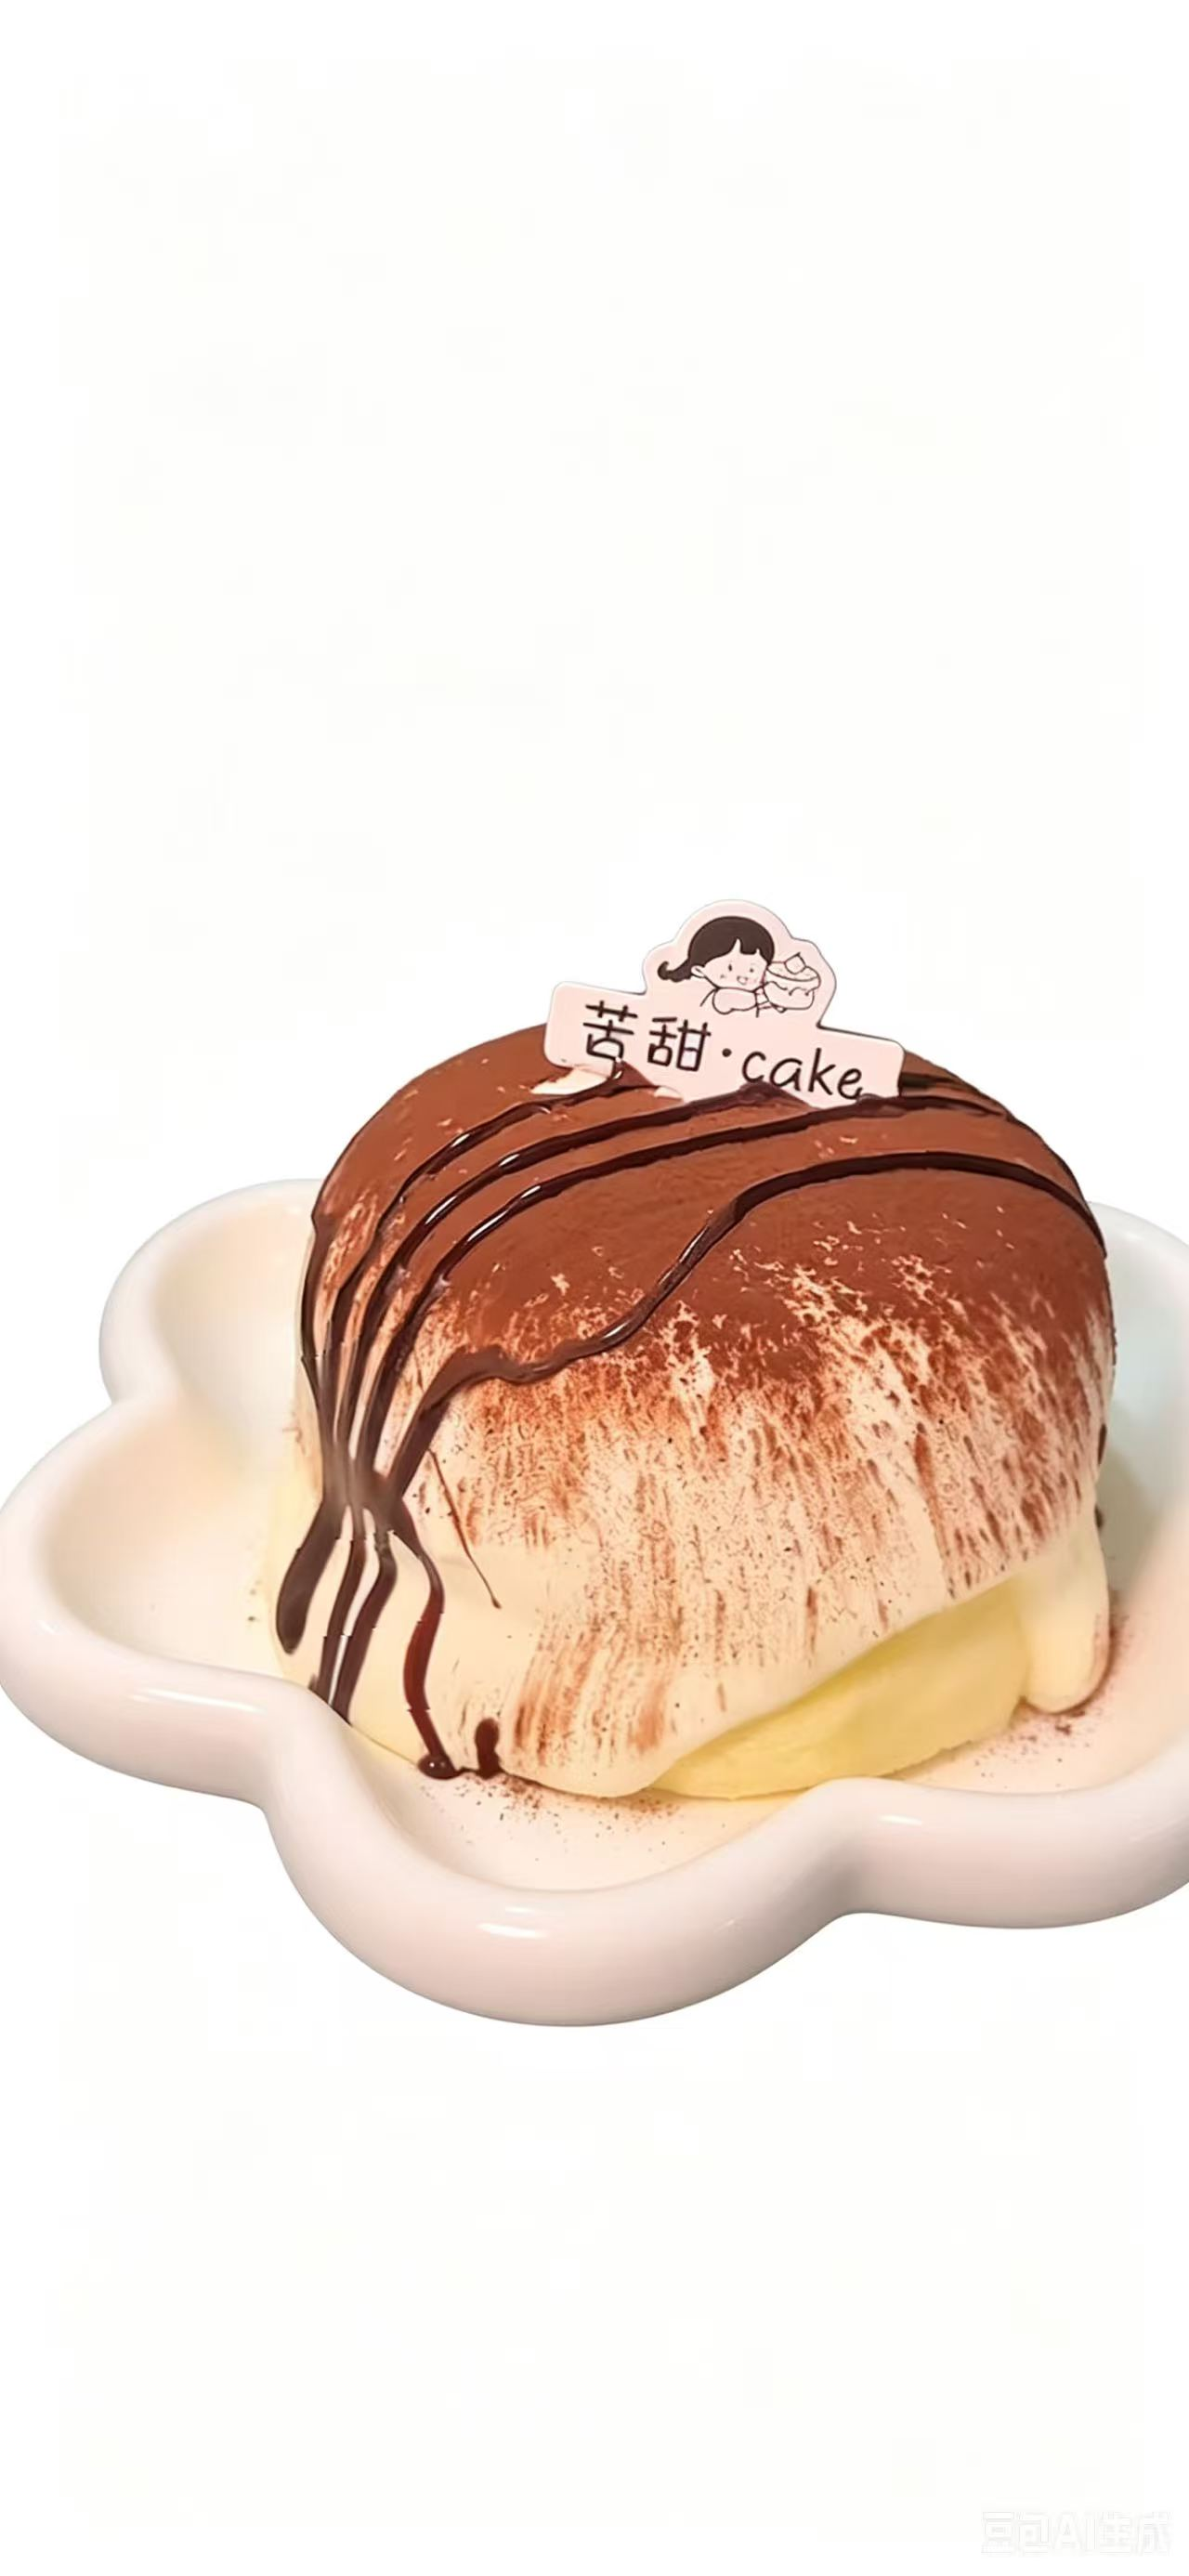
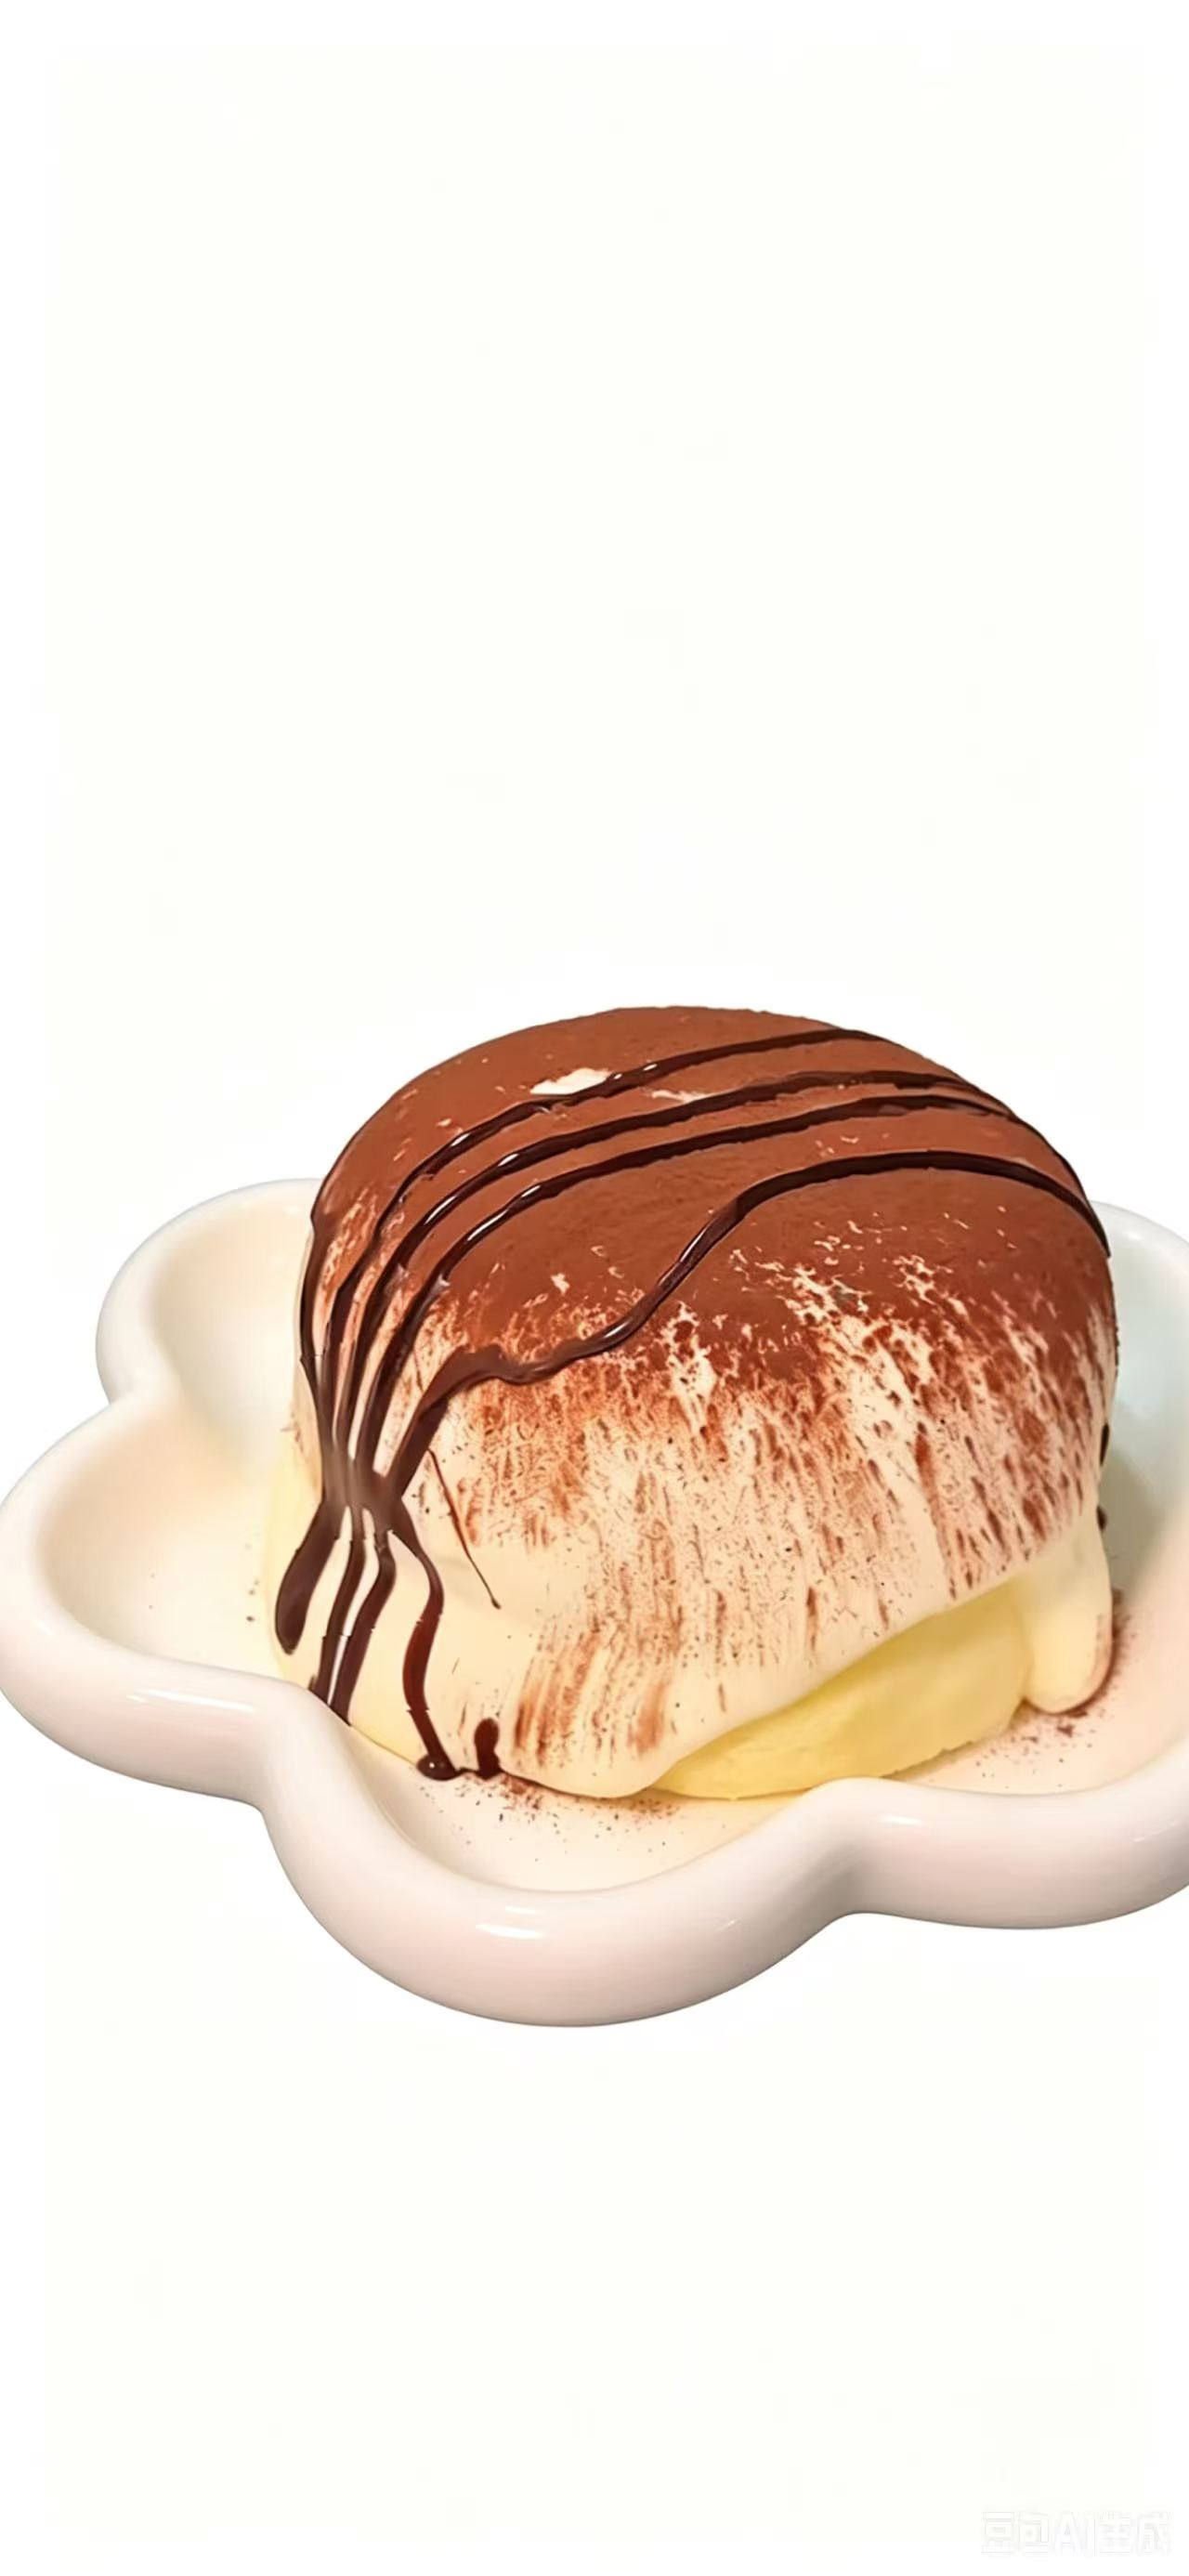
Add files via upload

diff --git a/xiaocengxu/index.html b/xiaocengxu/index.html
@@ -388,24 +388,24 @@
         </div>
       </article>
 
-      <!-- 套餐：限定 -->
+      <!-- 套餐：超值 -->
       <article class="prod-card" data-cat="combo">
         <div class="prod-img-box">
-          <img src="images/img-durian-cheese.jpg" alt="曼贺纳限定套餐" loading="lazy" class="prod-img">
-          <span class="prod-badge hot">限定</span>
+          <img src="images/img-combo-value.png" alt="超值套餐" loading="lazy" class="prod-img">
+          <span class="prod-badge hot">超值</span>
         </div>
         <div class="prod-body">
           <div class="prod-head">
-            <h2 class="prod-name">曼贺纳限定套餐</h2>
+            <h2 class="prod-name">超值套餐</h2>
             <div class="prod-price-row">
               <span class="prod-price">¥52</span>
               <span class="prod-price-old">¥61</span>
             </div>
           </div>
-          <p class="prod-desc">榴莲芝士饼(8寸) + 舒芙蕾1份 + 油柑汁(中杯)</p>
+          <p class="prod-desc">榴莲芝士饼(8寸) + 原味舒芙蕾1份 + 黄皮油柑汁(中杯)</p>
           <div class="prod-foot">
             <div class="prod-tags"><span class="tag-p">超值</span></div>
-            <button class="add-circle" onclick="event.stopPropagation();addToCart('曼贺纳限定套餐','¥52',52,'images/img-durian-cheese.jpg')">
+            <button class="add-circle" onclick="event.stopPropagation();addToCart('超值套餐','¥52',52,'images/img-combo-value.png')">
               <svg width="18" height="18" viewBox="0 0 24 24" fill="none" stroke="currentColor" stroke-width="2.5"><line x1="12" y1="5" x2="12" y2="19"/><line x1="5" y1="12" x2="19" y2="12"/></svg>
             </button>
           </div>
@@ -415,7 +415,7 @@
       <!-- 套餐：双人 -->
       <article class="prod-card" data-cat="combo">
         <div class="prod-img-box">
-          <img src="images/img-durian-cheese2.jpg" alt="双人分享套餐" loading="lazy" class="prod-img">
+          <img src="images/img-combo-share.png" alt="双人分享套餐" loading="lazy" class="prod-img">
         </div>
         <div class="prod-body">
           <div class="prod-head">
@@ -425,10 +425,10 @@
               <span class="prod-price-old">¥108</span>
             </div>
           </div>
-          <p class="prod-desc">榴莲芝士饼(10寸)×1 + 光饼×4 + 油柑汁(大杯)×2</p>
+          <p class="prod-desc">榴莲芝士饼(10寸)×1 + 鲜肉光饼×6 + 黄皮油柑汁(大杯500ml)×2</p>
           <div class="prod-foot">
             <div class="prod-tags"><span class="tag-p">分享</span></div>
-            <button class="add-circle" onclick="event.stopPropagation();addToCart('双人分享套餐','¥88',88,'images/img-durian-cheese2.jpg')">
+            <button class="add-circle" onclick="event.stopPropagation();addToCart('双人分享套餐','¥88',88,'images/img-combo-share.png')">
               <svg width="18" height="18" viewBox="0 0 24 24" fill="none" stroke="currentColor" stroke-width="2.5"><line x1="12" y1="5" x2="12" y2="19"/><line x1="5" y1="12" x2="19" y2="12"/></svg>
             </button>
           </div>